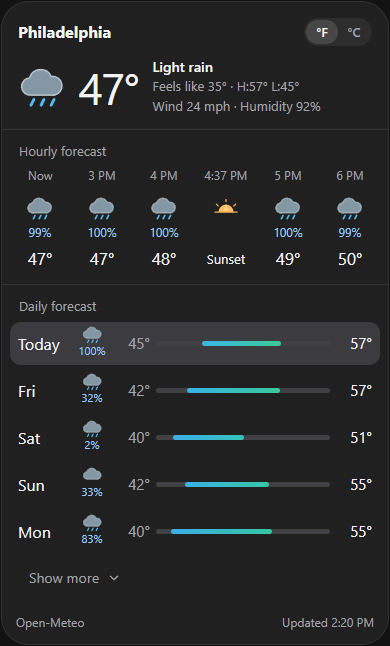
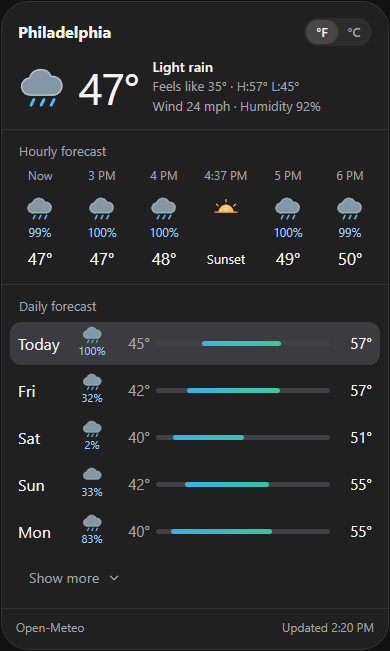
fix: restore footer divider

diff --git a/skills/weather-cards/scripts/card.html b/skills/weather-cards/scripts/card.html
@@ -5,7 +5,7 @@
 @media(prefers-color-scheme:dark){:root:not([data-theme=light]){--wc-bg:#131313;--wc-card:#202020;--wc-fg:#f4f4f5;--wc-muted:#a4a4aa;--wc-line:#323234;--wc-selected:#3b3b40;--wc-track:#414145;--wc-blue:#9dcafa;--wc-button:#343438}}
 :root[data-theme=dark]{--wc-bg:#131313;--wc-card:#202020;--wc-fg:#f4f4f5;--wc-muted:#a4a4aa;--wc-line:#323234;--wc-selected:#3b3b40;--wc-track:#414145;--wc-blue:#9dcafa;--wc-button:#343438}
 *{box-sizing:border-box}html,body{background:transparent}body{margin:0;padding:1px;color:var(--foreground,var(--wc-fg));font:15px/1.45 -apple-system,BlinkMacSystemFont,"Segoe UI",sans-serif}.card{max-width:640px;min-width:0;margin:0;border:1px solid var(--border,var(--wc-line));border-radius:28px;overflow:hidden;background:var(--card,var(--wc-card));color:var(--card-foreground,var(--wc-fg))}.current{padding:18px 18px 14px}header{display:flex;align-items:center;gap:12px;justify-content:space-between;margin-bottom:12px}h1{font-size:20px;line-height:1.2;margin:0;font-weight:650;overflow-wrap:anywhere;min-width:0}.units{display:flex;gap:3px;flex-shrink:0}button{font:inherit;color:inherit;border:0;cursor:pointer}button:focus-visible,a:focus-visible,.hours:focus-visible{outline:2px solid #38bdf8;outline-offset:2px}.units button{width:42px;height:40px;border-radius:24px;background:transparent;color:var(--muted-foreground,var(--wc-muted))}.units [aria-pressed=true]{background:var(--wc-button);color:var(--wc-fg)}.hero{display:flex;gap:14px;align-items:center}.hero .icon{width:49px;height:49px}.temp{font-size:46px;line-height:1.2;letter-spacing:-1.5px;font-weight:450}.condition{font-size:18px}.detail{color:var(--muted-foreground,var(--wc-muted));margin-top:3px;font-size:14px}.section{border-top:1px solid var(--border,var(--wc-line));padding:12px 8px 14px}.label{font-size:13px;font-weight:400;color:var(--muted-foreground,var(--wc-muted));margin:0 9px 6px}.hours{display:flex;gap:2px;overflow-x:auto;overscroll-behavior-x:contain;padding:0 1px 5px;scrollbar-width:thin;scrollbar-color:var(--wc-track) transparent;scroll-snap-type:x proximity}.hour{flex:0 0 60px;text-align:center;scroll-snap-align:start}.hour-time{font-size:12px;color:var(--muted-foreground,var(--wc-muted));white-space:nowrap;height:25px}.icon{width:28px;height:28px;display:inline-block;vertical-align:middle}.hour .icon{margin:2px 0}.pop{color:var(--wc-blue);font-size:12px;min-height:18px}.hour-temp{font-size:17px;margin-top:4px}.hour.sun .hour-temp{font-size:13px;margin-top:8px}.day{display:grid;grid-template-columns:76px 40px 40px minmax(60px,1fr) 42px;align-items:center;gap:8px;min-height:50px;padding:3px 9px;border-radius:11px}.day.selected{background:var(--wc-selected)}button.day{width:100%;border:0;font:inherit;color:inherit;text-align:left;background:transparent;cursor:pointer}button.day:hover:not(.selected){background:color-mix(in srgb,var(--wc-selected) 55%,transparent)}button.day:focus-visible{outline:2px solid var(--wc-blue,#5ab8f0);outline-offset:-2px}.day-name{font-size:16px}.daily-weather{text-align:center;line-height:1.1;padding:2px 0}.daily-weather .icon{width:25px;height:25px}.low{text-align:right;color:var(--muted-foreground,var(--wc-muted))}.high{text-align:right}.track{height:5px;border-radius:10px;background:var(--wc-track);position:relative;overflow:hidden}.range{position:absolute;top:0;height:100%;min-width:2px;border-radius:10px;background:linear-gradient(90deg,#4bbce6,#67c88e)}.more{background:transparent;color:var(--muted-foreground,var(--wc-muted));margin:9px 0 0 7px;padding:6px 12px;border:0;border-radius:999px;font:inherit;font-size:14px;display:inline-flex;align-items:center;gap:8px;line-height:20px;cursor:pointer;transition:background-color .15s ease,color .15s ease}.more:hover,.more:focus-visible{background:var(--wc-selected);color:var(--foreground,var(--wc-fg))}.more:focus-visible{outline:2px solid var(--wc-blue);outline-offset:1px}.more svg{width:14px;height:14px;display:block;flex:none}.more[aria-expanded=true] svg{transform:rotate(180deg)}.footer{border-top:1px solid var(--border,var(--wc-line));padding:12px 16px;color:var(--muted-foreground,var(--wc-muted));font-size:11px}.footer-line{display:flex;gap:10px;justify-content:space-between;flex-wrap:wrap}.footer a{color:inherit;text-decoration:none}.footer a:hover{text-decoration:underline}.note{margin-top:5px;font-size:10px}.provenance{margin-top:5px}.provenance summary{cursor:pointer;font-size:10px}.footer{padding-top:9px;padding-bottom:9px}.error{padding:20px;color:var(--wc-fg)}[hidden]{display:none!important}@media(max-width:390px){.current{padding:16px 16px 13px}.day{gap:6px;padding:3px 8px;grid-template-columns:50px 36px 34px minmax(44px,1fr) 36px}.condition{font-size:16px}.temp{font-size:44px}.hero{gap:11px}.footer{padding:12px 14px}}
-.hours-wrap{position:relative}.hours{touch-action:pan-x pan-y;scrollbar-width:none;-ms-overflow-style:none;padding-bottom:0}.hours::-webkit-scrollbar{display:none}.hour-nav{position:absolute;top:50%;z-index:2;width:30px;height:30px;margin-top:-15px;border-radius:50%;display:grid;place-items:center;background:color-mix(in srgb,var(--card,var(--wc-card)) 82%,var(--foreground,var(--wc-fg)) 18%);color:var(--foreground,var(--wc-fg));box-shadow:0 2px 10px rgba(0,0,0,.22)}.hour-nav svg{width:15px;height:15px;fill:none;stroke:currentColor;stroke-width:1.8;stroke-linecap:round;stroke-linejoin:round}.hour-nav.prev{left:2px}.hour-nav.next{right:2px}.hour-nav{opacity:0;pointer-events:none;transition:opacity .15s ease}.hours-wrap:hover .hour-nav,.hours-wrap:focus-within .hour-nav{opacity:1;pointer-events:auto}@media(hover:none){.hour-nav{display:none!important}.hours{scroll-snap-type:x proximity;-webkit-overflow-scrolling:touch;overscroll-behavior-x:contain}.hour{scroll-snap-align:start}}.hour-nav[hidden]{display:none}#days{display:flex;flex-direction:column;gap:4px}@media(hover:hover) and (pointer:fine){.units{gap:0;padding:2px;border-radius:999px;background:color-mix(in srgb,var(--foreground,var(--wc-fg)) 6%,transparent)}.units button{width:32px;height:24px;font-weight:500;border-radius:999px;font-size:13px;transition:background-color .15s ease,color .15s ease,box-shadow .15s ease}.units [aria-pressed=true]{background:color-mix(in srgb,var(--foreground,var(--wc-fg)) 13%,transparent);color:var(--foreground,var(--wc-fg));box-shadow:none}.units button:not([aria-pressed=true]):hover{color:var(--foreground,var(--wc-fg))}}.hero{gap:14px;align-items:center}.hero-main{display:flex;align-items:center;gap:12px;flex:none}.hero-text{min-width:0;display:flex;flex-direction:column;gap:1px}.hero-text .detail{margin-top:0}.condition{font-size:15px;font-weight:600;line-height:1.3}h1{font-size:16px}.day{min-height:42px}.footer{border-top:0;padding-top:6px;padding-bottom:12px}.daily-weather .icon{width:21px;height:21px}.daily-weather .pop{font-size:11px;line-height:1.1}.daily-weather{padding:0}.day{min-height:40px;padding-top:2px;padding-bottom:2px}.footer{font-size:12px}@media(max-width:390px){.hero-text .detail{font-size:13px}.condition{font-size:14px}}</style></head><body><main class="card" aria-label="Weather forecast"><section class="current"><header><h1 id="city">__TITLE__</h1><div class="units" role="group" aria-label="Temperature units"><button id="fahrenheit" aria-pressed="true" aria-label="Fahrenheit">°F</button><button id="celsius" aria-pressed="false" aria-label="Celsius">°C</button></div></header><div class="hero"><div class="hero-main" id="hero"></div><div class="hero-text"><div class="condition" id="cond"></div><div class="detail" id="feels"></div><div class="detail" id="wind"></div></div></div></section><section class="section"><h2 class="label" id="hours-label">Hourly forecast</h2><div class="hours-wrap"><button class="hour-nav prev" id="hours-prev" aria-label="Earlier hours" hidden><svg viewBox="0 0 16 16" aria-hidden="true"><path d="m10 3-5 5 5 5"/></svg></button><div class="hours" id="hours" tabindex="0" aria-label="Hourly forecast"></div><button class="hour-nav next" id="hours-next" aria-label="Later hours"><svg viewBox="0 0 16 16" aria-hidden="true"><path d="m6 3 5 5-5 5"/></svg></button></div></section><section class="section"><h2 class="label">Daily forecast</h2><div id="days"></div><button class="more" id="more" aria-expanded="false" aria-controls="days">Show more <span aria-hidden="true">⌄</span></button></section><footer class="footer"><div class="footer-line"><a href="https://open-meteo.com/" target="_blank" rel="noopener noreferrer">Open-Meteo</a><span id="valid"></span></div></footer></main>
+.hours-wrap{position:relative}.hours{touch-action:pan-x pan-y;scrollbar-width:none;-ms-overflow-style:none;padding-bottom:0}.hours::-webkit-scrollbar{display:none}.hour-nav{position:absolute;top:50%;z-index:2;width:30px;height:30px;margin-top:-15px;border-radius:50%;display:grid;place-items:center;background:color-mix(in srgb,var(--card,var(--wc-card)) 82%,var(--foreground,var(--wc-fg)) 18%);color:var(--foreground,var(--wc-fg));box-shadow:0 2px 10px rgba(0,0,0,.22)}.hour-nav svg{width:15px;height:15px;fill:none;stroke:currentColor;stroke-width:1.8;stroke-linecap:round;stroke-linejoin:round}.hour-nav.prev{left:2px}.hour-nav.next{right:2px}.hour-nav{opacity:0;pointer-events:none;transition:opacity .15s ease}.hours-wrap:hover .hour-nav,.hours-wrap:focus-within .hour-nav{opacity:1;pointer-events:auto}@media(hover:none){.hour-nav{display:none!important}.hours{scroll-snap-type:x proximity;-webkit-overflow-scrolling:touch;overscroll-behavior-x:contain}.hour{scroll-snap-align:start}}.hour-nav[hidden]{display:none}#days{display:flex;flex-direction:column;gap:4px}@media(hover:hover) and (pointer:fine){.units{gap:0;padding:2px;border-radius:999px;background:color-mix(in srgb,var(--foreground,var(--wc-fg)) 6%,transparent)}.units button{width:32px;height:24px;font-weight:500;border-radius:999px;font-size:13px;transition:background-color .15s ease,color .15s ease,box-shadow .15s ease}.units [aria-pressed=true]{background:color-mix(in srgb,var(--foreground,var(--wc-fg)) 13%,transparent);color:var(--foreground,var(--wc-fg));box-shadow:none}.units button:not([aria-pressed=true]):hover{color:var(--foreground,var(--wc-fg))}}.hero{gap:14px;align-items:center}.hero-main{display:flex;align-items:center;gap:12px;flex:none}.hero-text{min-width:0;display:flex;flex-direction:column;gap:1px}.hero-text .detail{margin-top:0}.condition{font-size:15px;font-weight:600;line-height:1.3}h1{font-size:16px}.day{min-height:42px}.footer{padding-top:10px;padding-bottom:12px}.daily-weather .icon{width:21px;height:21px}.daily-weather .pop{font-size:11px;line-height:1.1}.daily-weather{padding:0}.day{min-height:40px;padding-top:2px;padding-bottom:2px}.footer{font-size:12px}@media(max-width:390px){.hero-text .detail{font-size:13px}.condition{font-size:14px}}</style></head><body><main class="card" aria-label="Weather forecast"><section class="current"><header><h1 id="city">__TITLE__</h1><div class="units" role="group" aria-label="Temperature units"><button id="fahrenheit" aria-pressed="true" aria-label="Fahrenheit">°F</button><button id="celsius" aria-pressed="false" aria-label="Celsius">°C</button></div></header><div class="hero"><div class="hero-main" id="hero"></div><div class="hero-text"><div class="condition" id="cond"></div><div class="detail" id="feels"></div><div class="detail" id="wind"></div></div></div></section><section class="section"><h2 class="label" id="hours-label">Hourly forecast</h2><div class="hours-wrap"><button class="hour-nav prev" id="hours-prev" aria-label="Earlier hours" hidden><svg viewBox="0 0 16 16" aria-hidden="true"><path d="m10 3-5 5 5 5"/></svg></button><div class="hours" id="hours" tabindex="0" aria-label="Hourly forecast"></div><button class="hour-nav next" id="hours-next" aria-label="Later hours"><svg viewBox="0 0 16 16" aria-hidden="true"><path d="m6 3 5 5-5 5"/></svg></button></div></section><section class="section"><h2 class="label">Daily forecast</h2><div id="days"></div><button class="more" id="more" aria-expanded="false" aria-controls="days">Show more <span aria-hidden="true">⌄</span></button></section><footer class="footer"><div class="footer-line"><a href="https://open-meteo.com/" target="_blank" rel="noopener noreferrer">Open-Meteo</a><span id="valid"></span></div></footer></main>
 <script id="weather-data" type="application/json">__DATA__</script>
 <script>
 'use strict';
